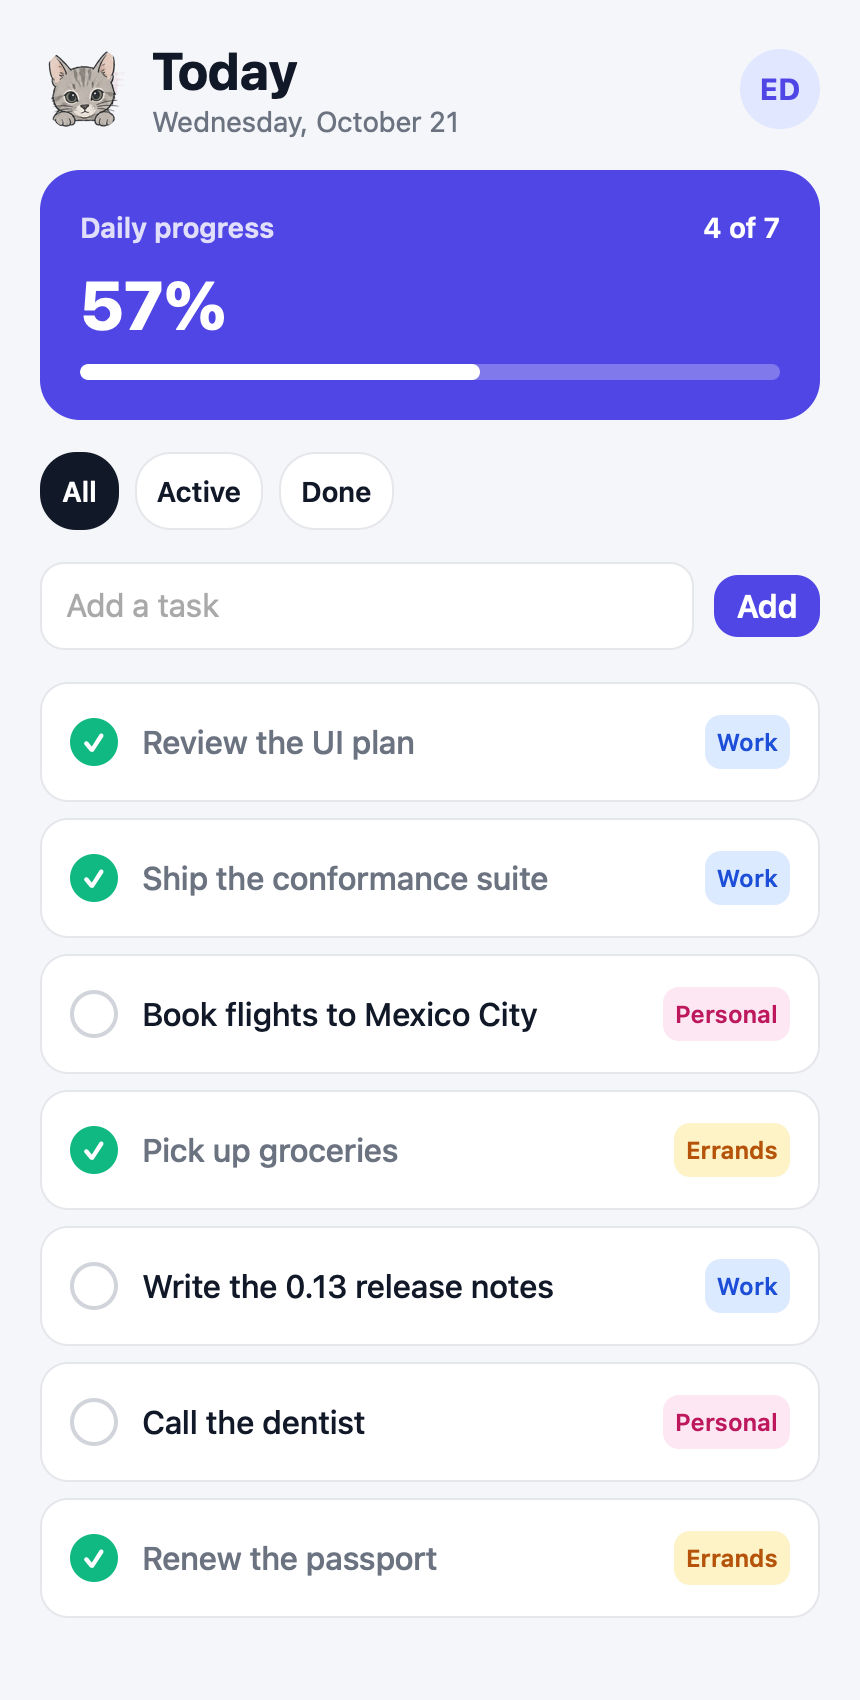
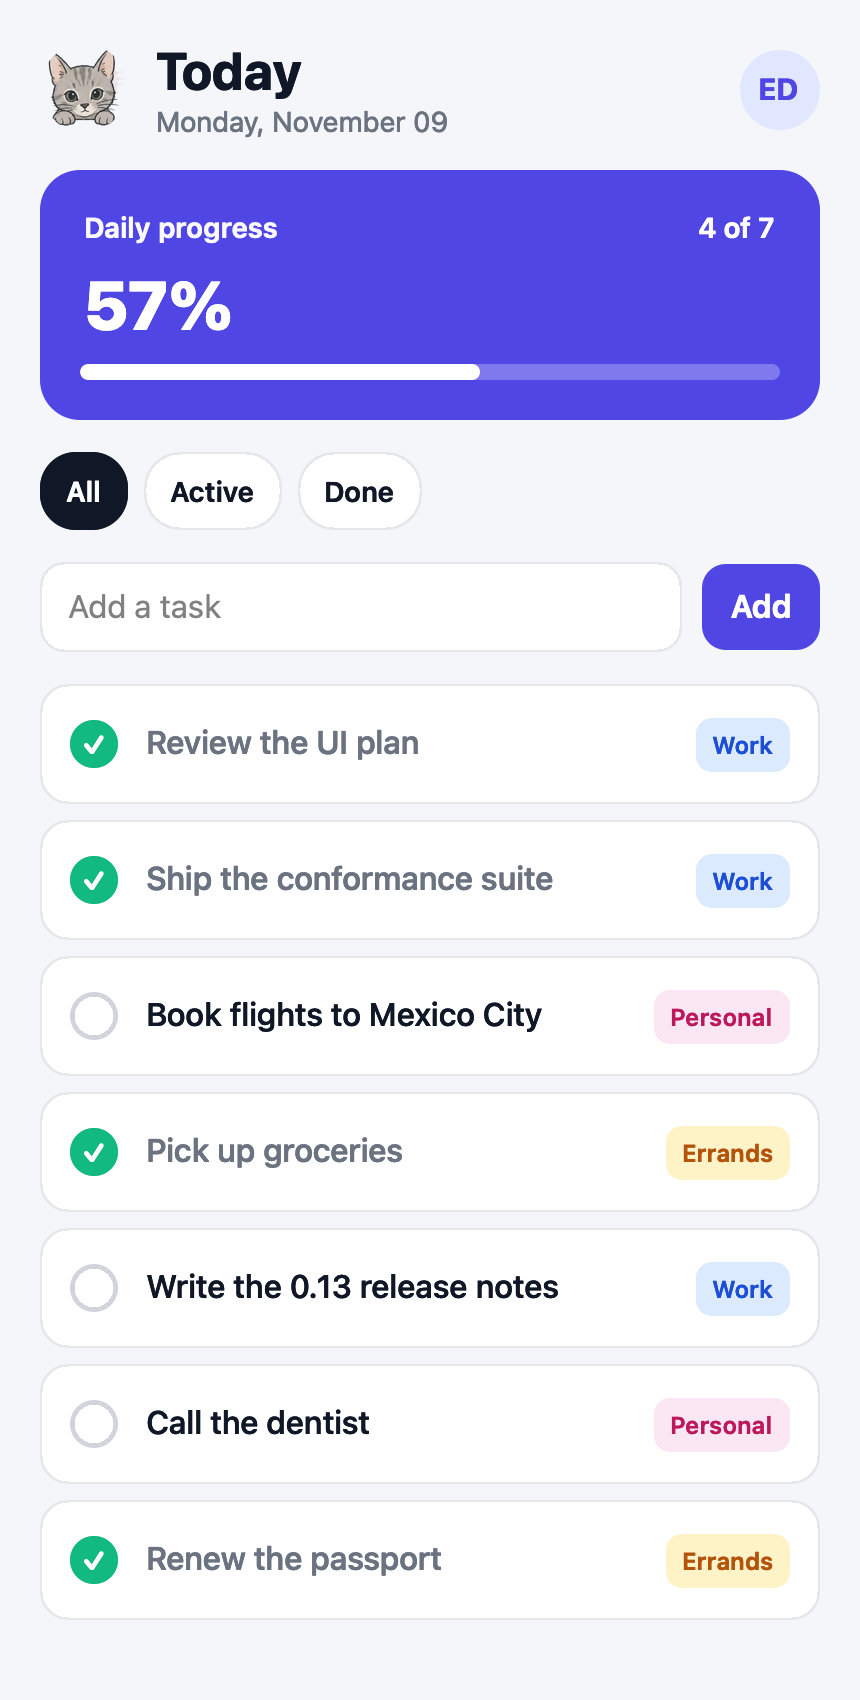
screenshots: macOS from the AppKit host

diff --git a/tools/screenshots.py b/tools/screenshots.py
@@ -1,6 +1,7 @@
 #!/usr/bin/env python3
 """The README's screenshots: the Tasks showcase (examples/tasks) on the web, the iOS
-simulator, the Android emulator and macOS. A host that is not available is skipped.
+simulator, the Android emulator and macOS (the AppKit host). A host that is not available is
+skipped; `python3 tools/screenshots.py macos` takes only the hosts named.
 Metadata chunks (eXIf, tEXt, iTXt, zTXt, tIME) are dropped from every PNG."""
 import functools
 import http.server
@@ -60,13 +61,20 @@ def shoot_web(server):
 
 
 def shoot_macos(server):
-    binary = BUILD / "desktop/EskiuDesktop"
-    binary.parent.mkdir(exist_ok=True)
-    subprocess.run(["xcrun", "clang", "-fobjc-arc", HERE / "hosts/macos/host.m", "-framework", "Cocoa", "-framework", "WebKit",
-                    "-o", binary], check=True, timeout=60)
-    url = f"http://127.0.0.1:{server.server_port}/?example=tasks&shot=1"
-    result = subprocess.run([binary, url, SHOTS / "tasks-macos.png", "430x880"], capture_output=True, text=True, timeout=60)
-    return None if result.returncode == 0 else "no snapshot (is the display awake?)"
+    """examples/tasks in the AppKit host, 430 by 880 points, through `ui agent macos`."""
+    if sys.platform != "darwin":
+        return "not a Mac"
+    ui = BUILD / "ui"
+    subprocess.run(["eskiuc", HERE / "tools/ui/main.esk", "-o", ui], check=True, timeout=300)
+    project = HERE / "examples/tasks"
+    env = {**os.environ, "UI_AGENT_WINDOW": "430x880"}
+    subprocess.run([ui, "agent", "macos", "--stop"], cwd=project, capture_output=True)
+    try:
+        result = subprocess.run([ui, "agent", "macos", "clock settle", f"screenshot {SHOTS / 'tasks-macos.png'}"],
+                                cwd=project, env=env, capture_output=True, text=True, timeout=600)
+    finally:
+        subprocess.run([ui, "agent", "macos", "--stop"], cwd=project, capture_output=True)
+    return None if result.returncode == 0 else "no screenshot: " + result.stderr[-300:]
 
 
 def shoot_ios():
@@ -101,11 +109,16 @@ def shoot_android():
 
 def main():
     SHOTS.mkdir(exist_ok=True)
-    subprocess.run([sys.executable, HERE / "tools/build_web.py"], check=True, timeout=300, capture_output=True)
+    chosen = sys.argv[1:]
+    if not chosen or "web" in chosen:
+        subprocess.run([sys.executable, HERE / "tools/build_web.py"], check=True, timeout=300, capture_output=True)
     server = serve()
     try:
-        for name, shoot in (("web", lambda: shoot_web(server)), ("macos", lambda: shoot_macos(server)),
-                            ("ios", shoot_ios), ("android", shoot_android)):
+        hosts = (("web", lambda: shoot_web(server)), ("macos", lambda: shoot_macos(server)),
+                 ("ios", shoot_ios), ("android", shoot_android))
+        for name, shoot in hosts:
+            if chosen and name not in chosen:
+                continue
             skipped = shoot()
             path = SHOTS / f"tasks-{name}.png"
             if skipped is None and path.exists():
